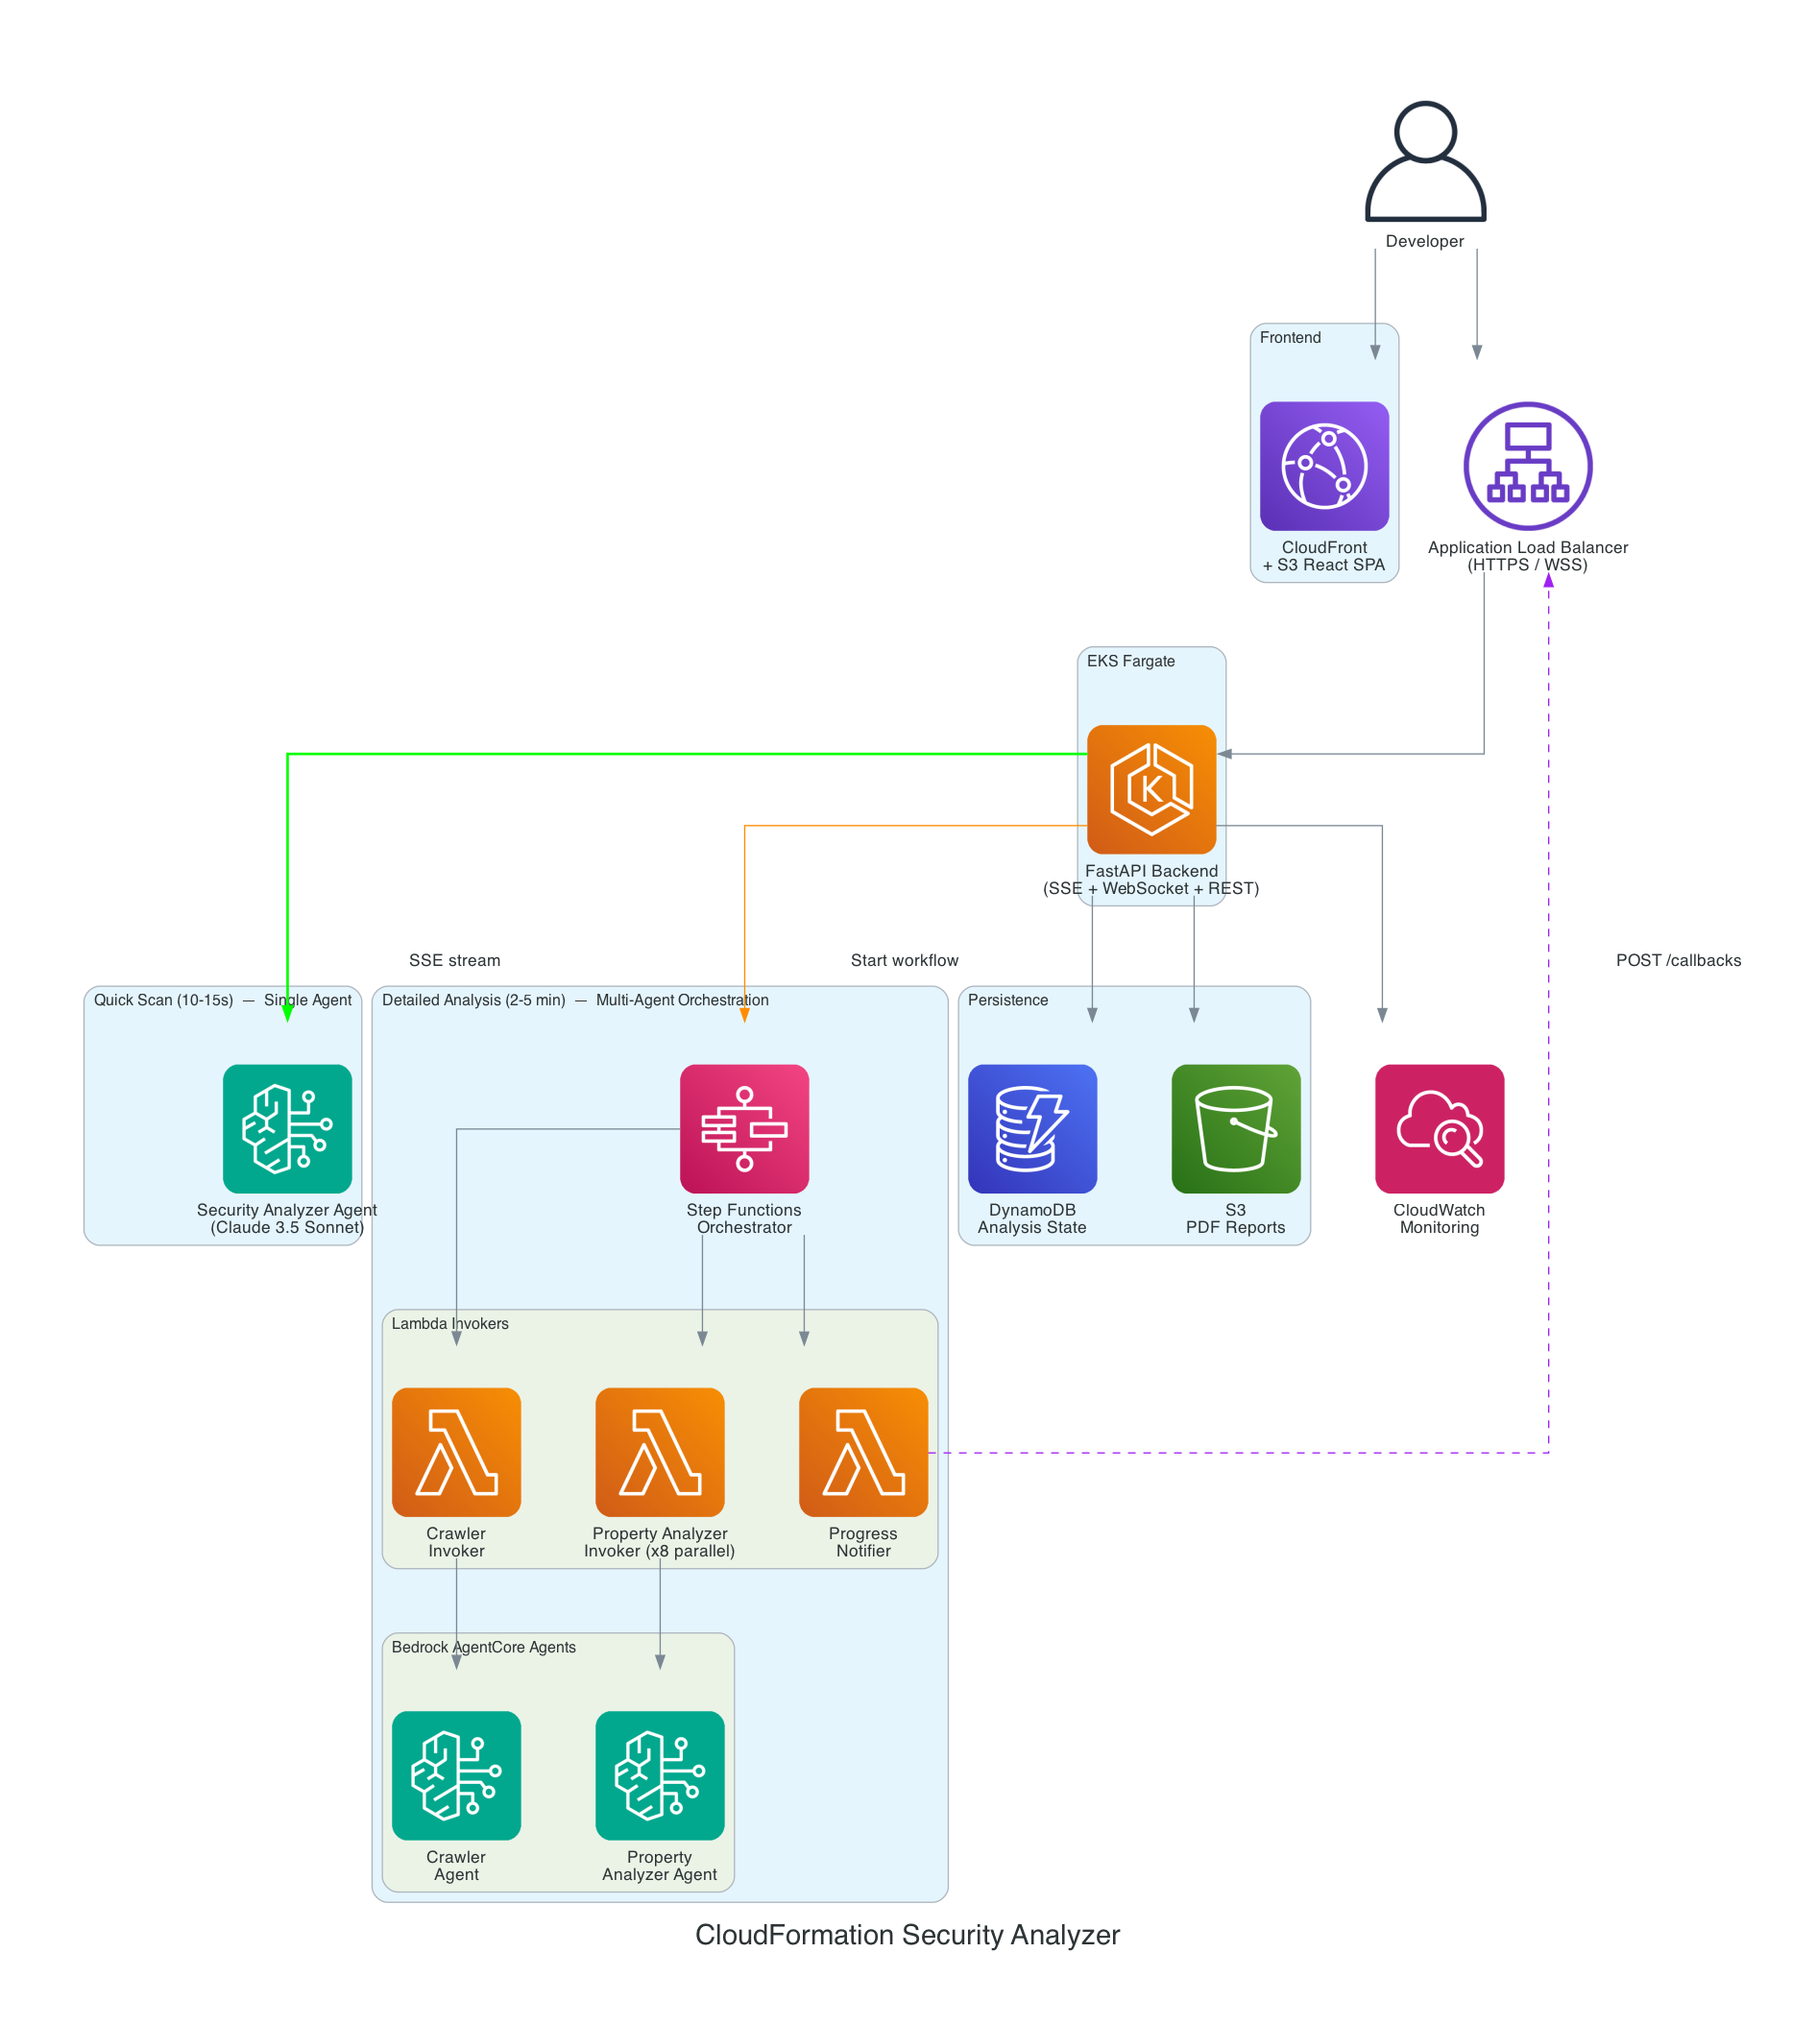
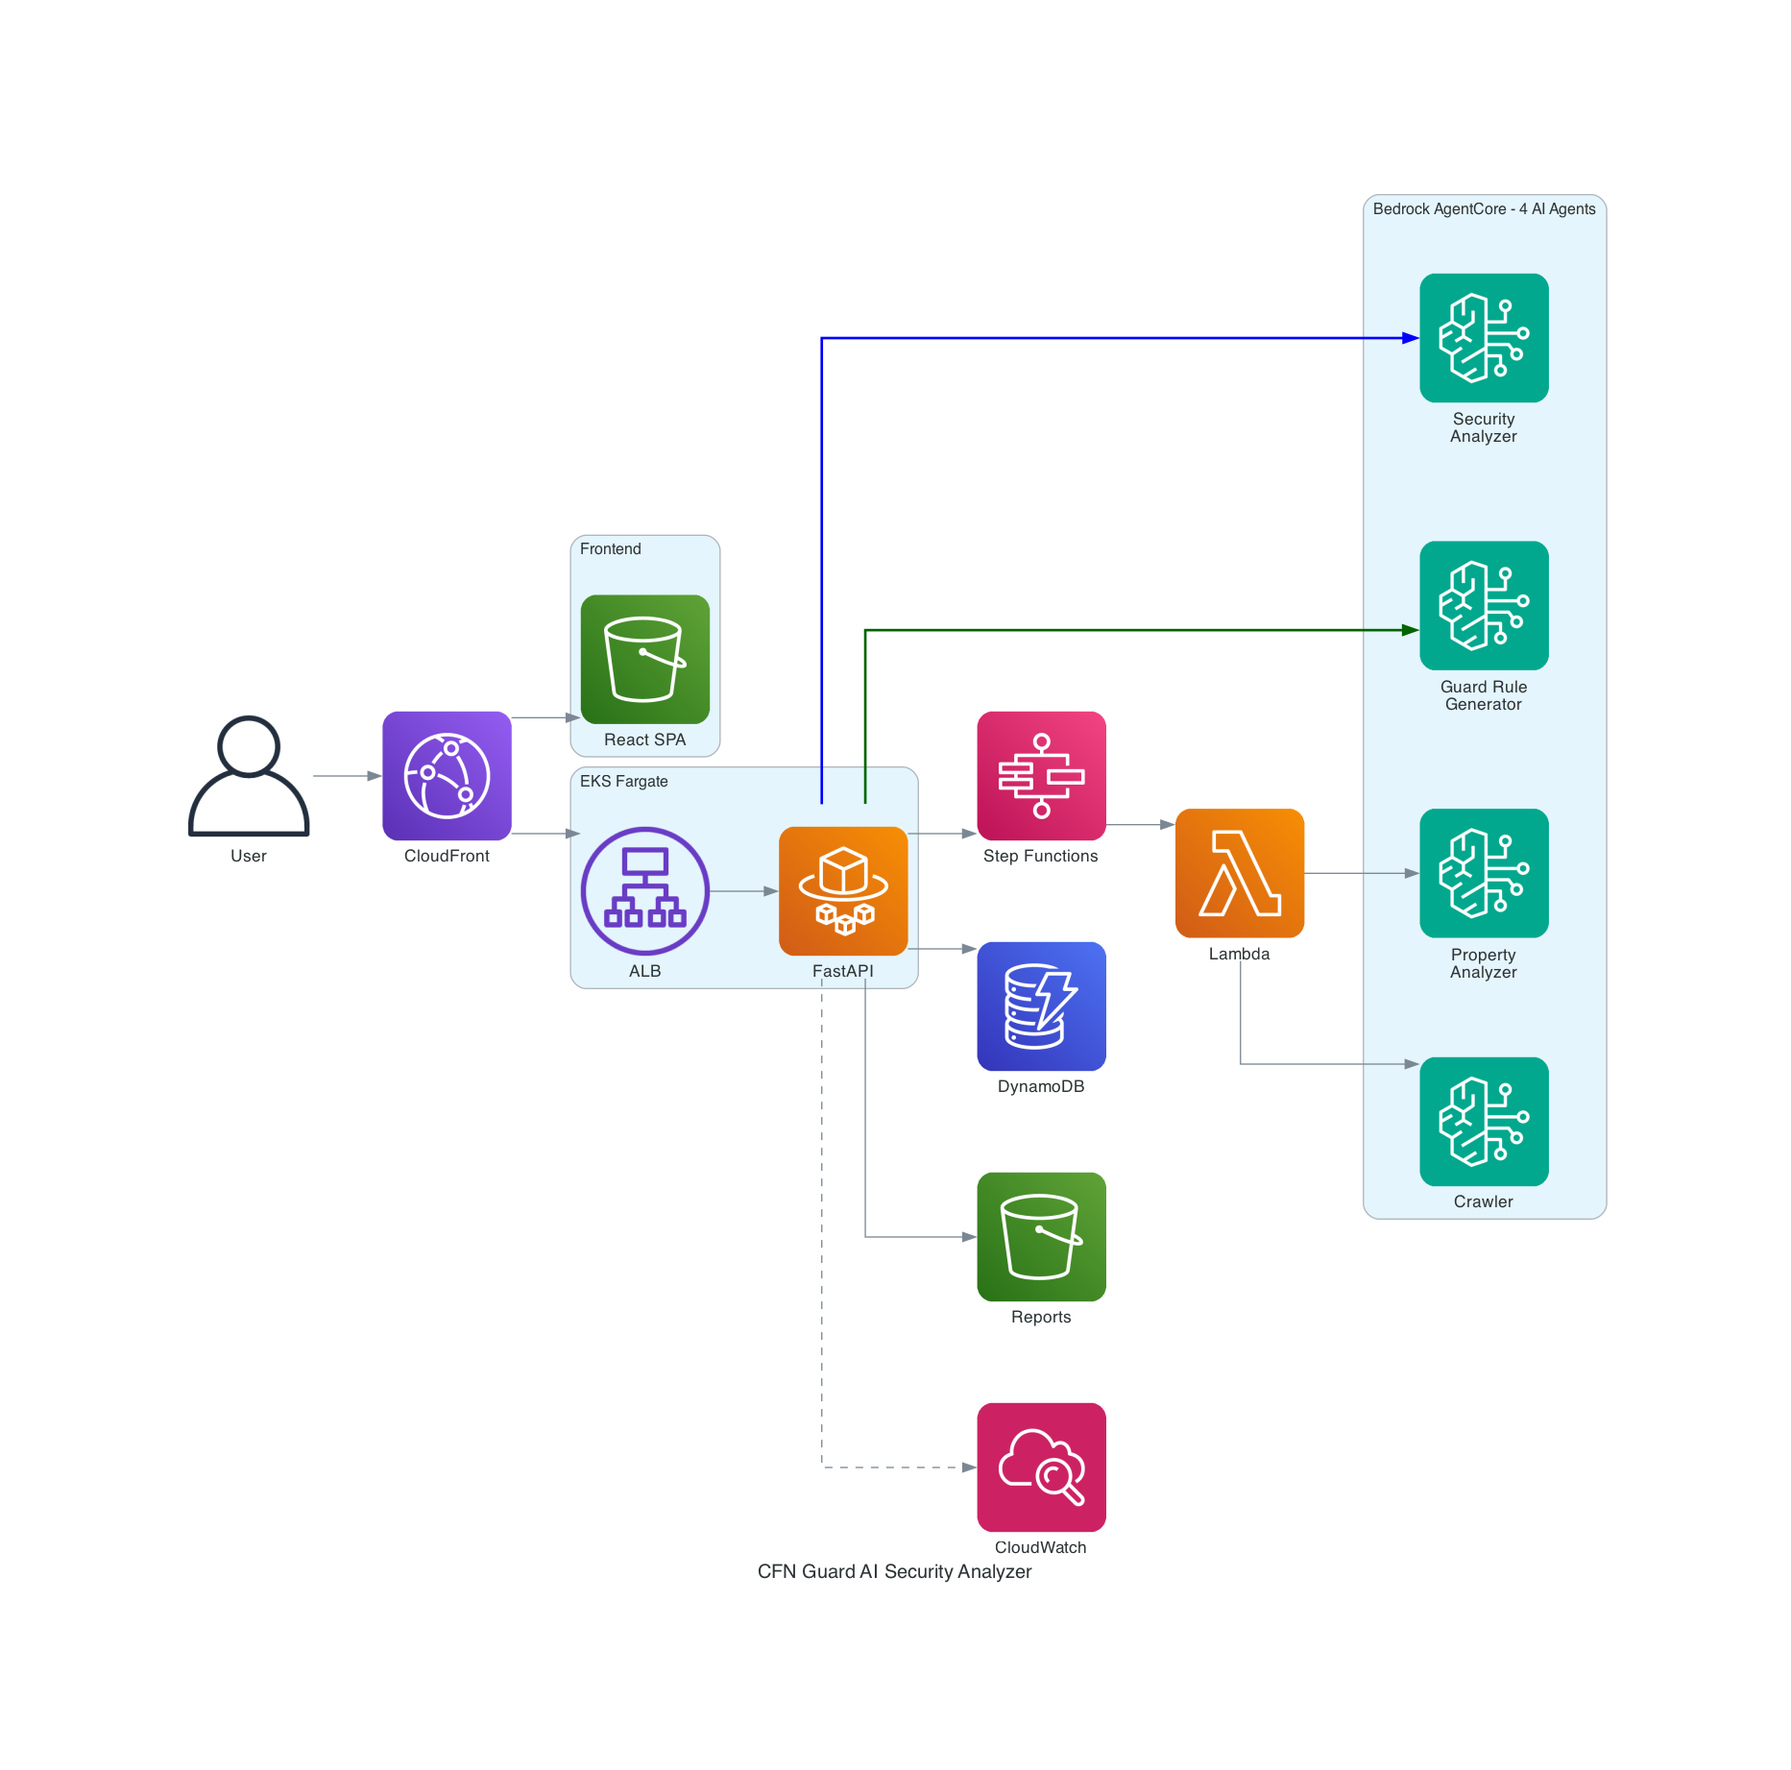
docs: update architecture diagram, README, and demo for Guard Rule generation
- Architecture diagram: regenerated with 4 agents (added Guard Rule Generator)
- README: 4 agents in table, Guard Rule flow diagram, API reference, env vars, cleanup
- Demo GIF: new 4-frame walkthrough at 1920x993 (landing, results, modal, collection)
- Screenshots: scan results with buttons, guard rule modal, collection tab
- Timeout: bumped guard rule generation from 30s to 60s (cold start tolerance)

Changed region(s): [[0.0311, 0.0309, 0.933, 0.9588], [0.5598, 0.9278, 0.5909, 0.9588], [0.1555, 0.3711, 0.1866, 0.4021]]

diff --git a/frontend/src/hooks/useGuardRules.ts b/frontend/src/hooks/useGuardRules.ts
@@ -54,7 +54,7 @@ export function useGuardRules(): UseGuardRulesReturn {
       setError(null);
 
       const controller = new AbortController();
-      const timeout = setTimeout(() => controller.abort(), 30_000);
+      const timeout = setTimeout(() => controller.abort(), 60_000);
 
       try {
         const resp = await fetch(`${API_BASE_URL}/guard-rules`, {
@@ -86,7 +86,7 @@ export function useGuardRules(): UseGuardRulesReturn {
       } catch (err: unknown) {
         const msg =
           err instanceof DOMException && err.name === "AbortError"
-            ? "Guard rule generation timed out (30s)"
+            ? "Guard rule generation timed out (60s)"
             : (err as Error).message;
         setError(msg);
       } finally {

diff --git a/README.md b/README.md
@@ -21,7 +21,7 @@ This tool uses AI agents to automatically:
 
 | Service | Purpose |
 |---------|---------|
-| **Amazon Bedrock AgentCore** | Hosts the 3 AI agents (Strands SDK + Claude) |
+| **Amazon Bedrock AgentCore** | Hosts the 4 AI agents (Strands SDK + Claude) |
 | **Amazon EKS Fargate** | Runs the FastAPI backend service |
 | **AWS Step Functions** | Orchestrates the detailed multi-agent analysis workflow |
 | **AWS Lambda** | Invokes AgentCore agents from Step Functions |
@@ -47,6 +47,17 @@ User → Frontend → FastAPI (SSE) → Bedrock AgentCore (Claude)
 3. Progress streams to the frontend via WebSocket in real-time
 4. Results are aggregated and a PDF report is generated
 
+**Guard Rule Generation (per property)** — Click "Generate Guard Rule" on any property card:
+
+```
+PropertyCard → FastAPI (POST /guard-rules) → Guard Rule Generator Agent (Claude)
+                                                      ↓
+                              ← Structured output (Pydantic) with validated schema ←
+                              ← Guard rule + pass/fail test templates ←
+```
+
+The Guard Rule Generator Agent uses [Strands SDK structured output](https://strandsagents.com/docs/user-guide/concepts/agents/structured-output/) to guarantee the response schema via tool_use enforcement — not prompt engineering. Generated rules use **cfn-guard 3.x syntax** and are validated to work with `cfn-guard validate`.
+
 ## Demo
 
 ![CFN Security Analyzer — Quick Scan and Detailed Analysis](docs/demo-screenshots/demo-full-walkthrough.gif)
@@ -54,8 +65,9 @@ User → Frontend → FastAPI (SSE) → Bedrock AgentCore (Claude)
 The walkthrough above shows:
 1. **Enter a CloudFormation resource URL** — paste any TemplateReference documentation link
 2. **Quick Scan results** — 8 security properties identified in ~15 seconds, each with risk level (Critical/High/Medium/Low), security impact, and remediation recommendation
-3. **Detailed Analysis in progress** — multi-agent pipeline with real-time progress tracking (crawl → per-property deep analysis)
-4. **Detailed Analysis results** — 12 properties found (more granular than Quick Scan), with a **Generate PDF Report** button for downloadable security reports
+3. **Generate Guard Rule** — click the button on any property to generate a cfn-guard 3.x rule with pass/fail test templates
+4. **Guard Rules collection** — add rules to a collection tab, download all as a `.guard` ruleset file ready for CI/CD
+5. **Detailed Analysis** — multi-agent pipeline with real-time progress tracking and PDF report generation
 
 ## Example Output
 
@@ -193,7 +205,8 @@ See [`.env.example`](.env.example) for the full list. Key variables:
 | `CDK_ENVIRONMENT` | Environment name | `dev` |
 | `CDK_ADMIN_USERNAME` | IAM user for EKS kubectl access | (none) |
 | `BEDROCK_MODEL_ID` | Foundation model ID for agents | Claude Sonnet 4 |
-| `SECURITY_ANALYZER_AGENT_ARN` | AgentCore runtime ARN | (set after agent deploy) |
+| `SECURITY_ANALYZER_AGENT_ARN` | AgentCore runtime ARN (security scan) | (set after agent deploy) |
+| `GUARD_RULE_AGENT_ARN` | AgentCore runtime ARN (guard rule gen) | (set after agent deploy) |
 | `CORS_ORIGINS` | Allowed CORS origins (comma-separated) | `localhost` |
 
 ## Project Structure
@@ -219,12 +232,14 @@ See [`.env.example`](.env.example) for the full list. Key variables:
 │       ├── analysis.py             #   POST /analysis, POST /analysis/stream
 │       ├── reports.py              #   POST /reports/{id} (PDF generation)
 │       ├── websocket.py            #   WebSocket connect/subscribe
+│       ├── guard_rules.py          #   POST /guard-rules (Guard rule generation)
 │       ├── callbacks.py            #   POST /callbacks/progress
 │       └── health.py               #   GET /health
 ├── agents/                         # Bedrock AgentCore agents (Strands SDK)
 │   ├── security_analyzer_agent.py  #   Quick security scan agent
 │   ├── crawler_agent.py            #   Documentation crawler agent
-│   └── property_analyzer_agent.py  #   Detailed property analysis agent
+│   ├── property_analyzer_agent.py  #   Detailed property analysis agent
+│   └── guard_rule_generator_agent.py # Guard rule generation (structured output)
 ├── lambda/                         # Lambda handlers (used by Step Functions)
 │   ├── agent_invoker.py            #   Invokes AgentCore agents
 │   └── progress_notifier.py        #   Sends progress updates to FastAPI
@@ -242,6 +257,7 @@ See [`.env.example`](.env.example) for the full list. Key variables:
 | `POST` | `/analysis/stream` | Quick scan with SSE streaming |
 | `GET` | `/analysis/{id}` | Get analysis status and results |
 | `POST` | `/reports/{id}` | Generate PDF security report |
+| `POST` | `/guard-rules` | Generate CFN Guard rule for a property |
 | `WS` | `/ws` | WebSocket for real-time progress |
 | `POST` | `/callbacks/progress` | Step Functions progress callback |
 | `GET` | `/health` | Health check |
@@ -280,6 +296,7 @@ CDK_ENVIRONMENT=dev cdk destroy --all
 agentcore destroy --agent cfn_security_analyzer --force
 agentcore destroy --agent cfn_crawler --force
 agentcore destroy --agent cfn_property_analyzer --force
+agentcore destroy --agent cfn_guard_rule_generator --force
 ```
 
 ## Security
